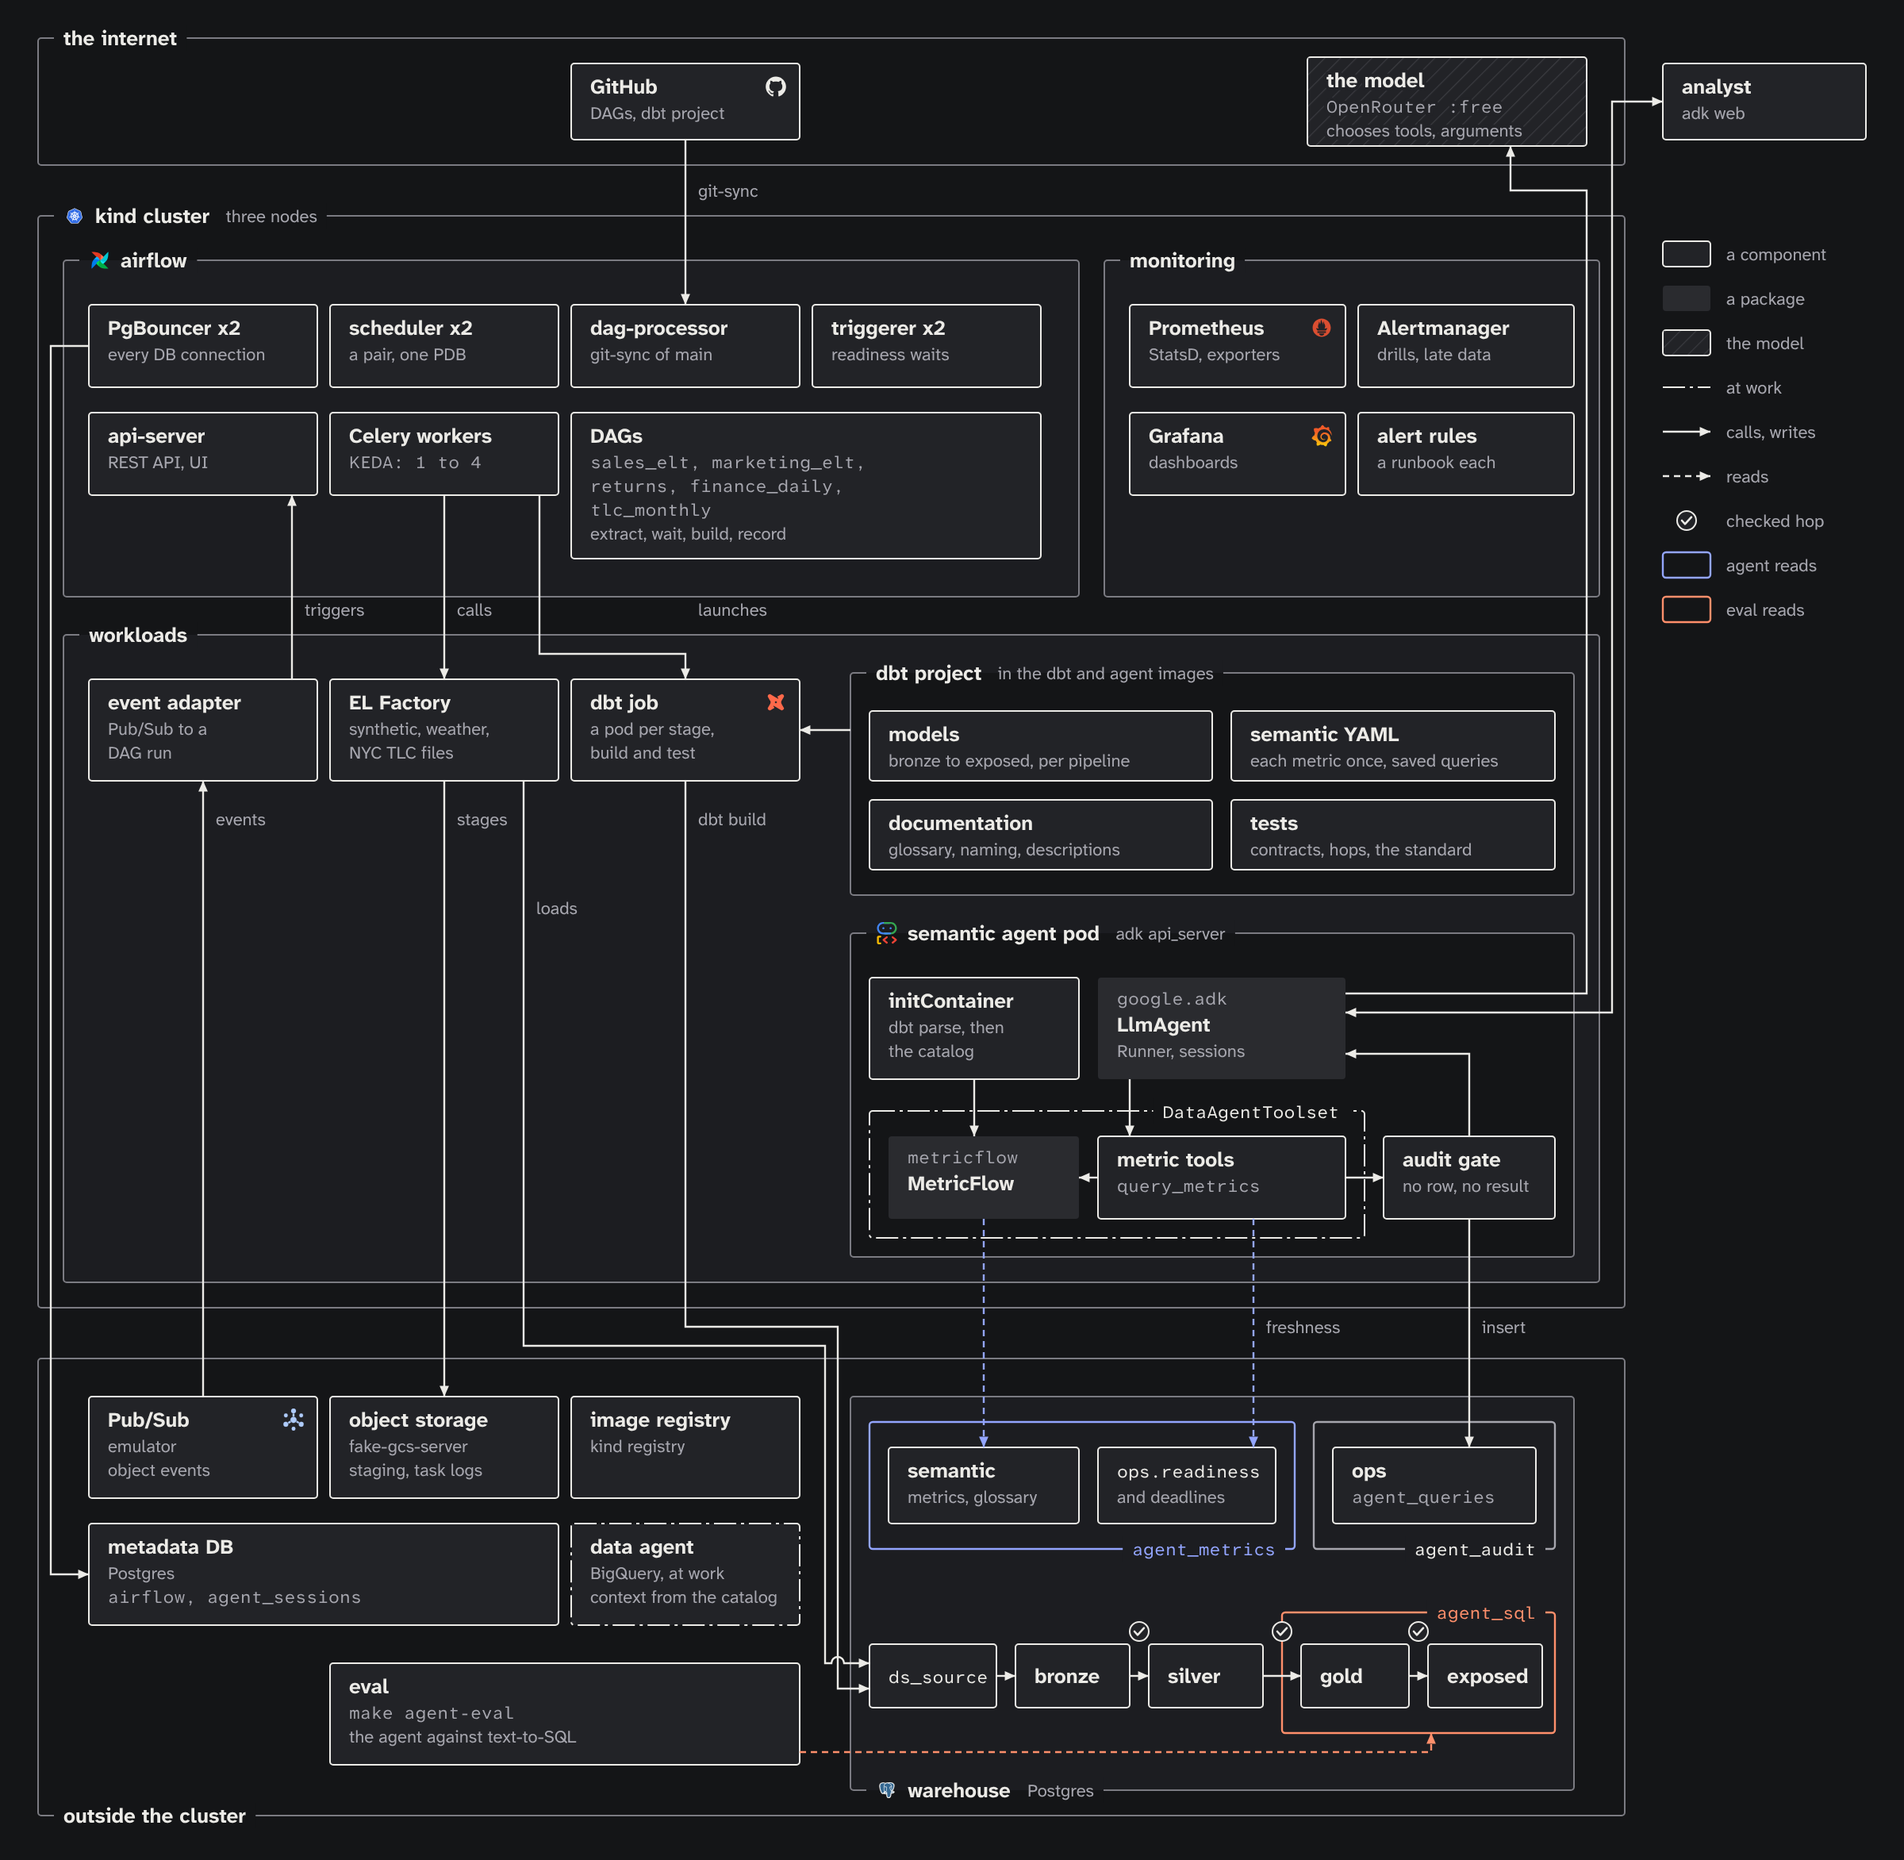
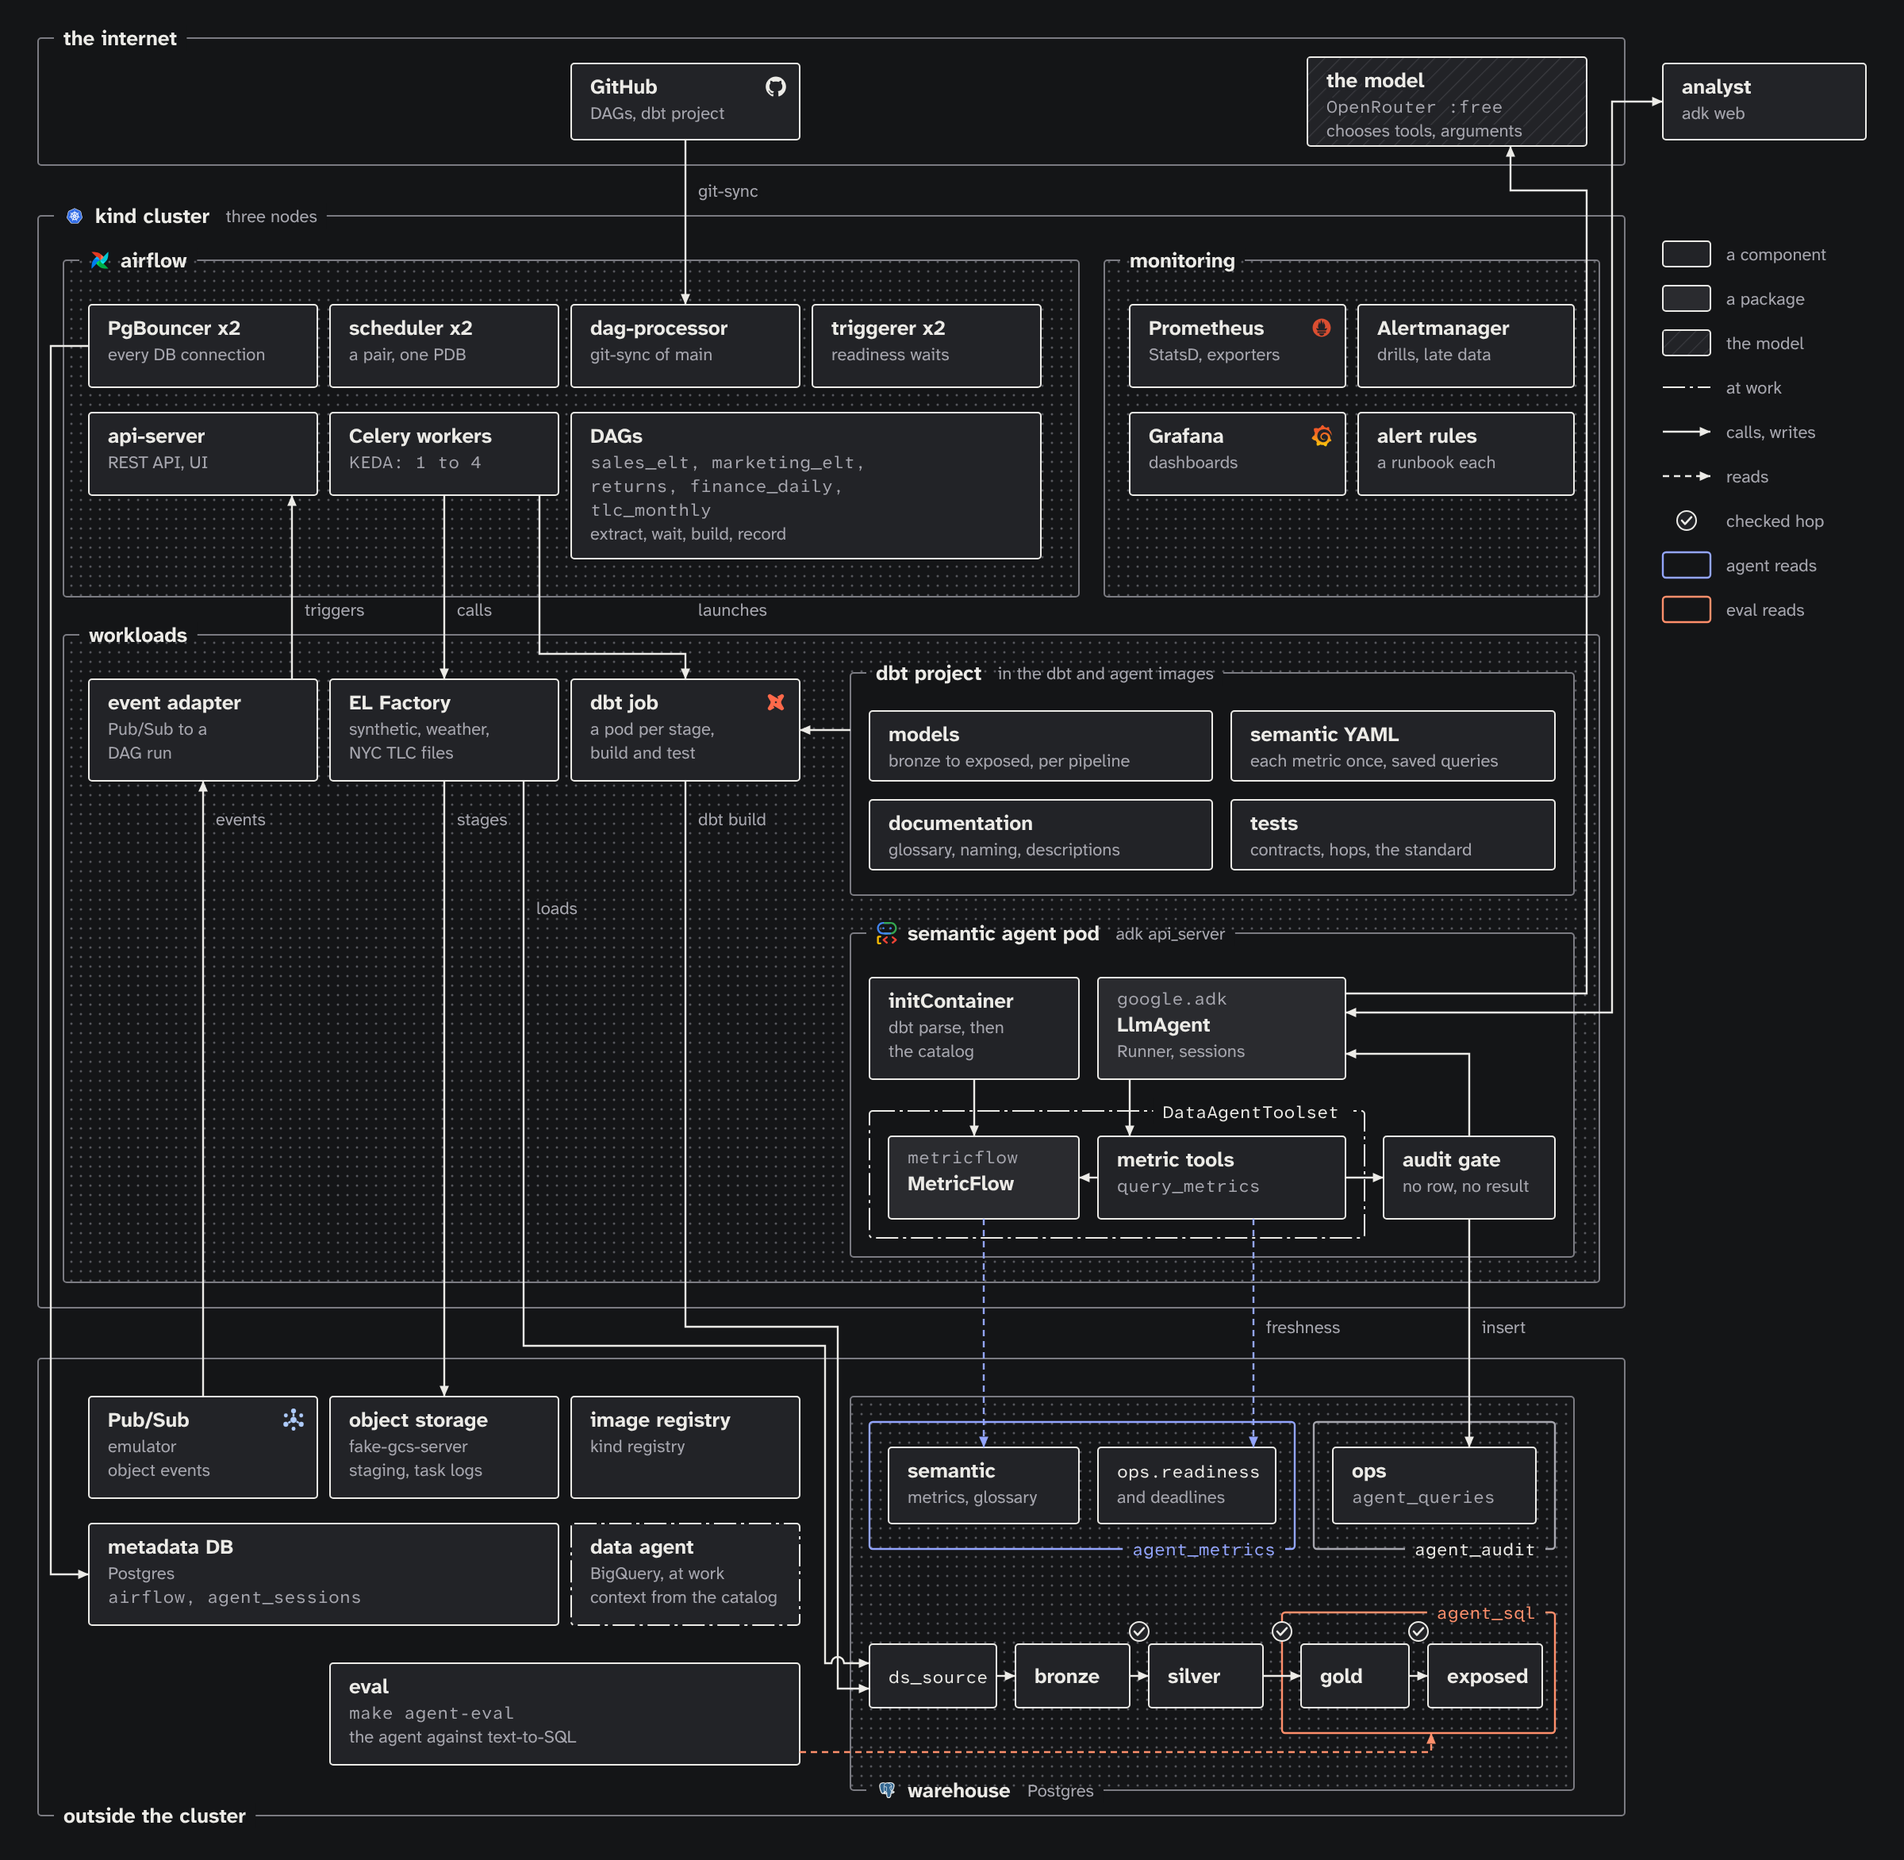
docs(assets): dot-screened bands, outlined package cards

diff --git a/assets/platform.html b/assets/platform.html
@@ -22,7 +22,7 @@
    between the sheet:css markers; edit it here, never in a copy. */
 :root {
   --paper: #fbfbf9;
-  --tint: #f1f0eb;
+  --dot: #bebdb8;
   --card: #ffffff;
   --pkg: #ebeae5;
   --ink: #1b1b1d;
@@ -37,13 +37,13 @@
 }
 @media (prefers-color-scheme: dark) {
   :root:not([data-theme="light"]) {
-    --paper: rgb(20, 21, 23); --tint: #1c1d21; --card: rgb(34, 35, 39); --pkg: #2a2b2f; --ink: #ecebe7; --rule: #7b7b82; --hair: #3a3b40;
+    --paper: rgb(20, 21, 23); --dot: #56575d; --card: rgb(34, 35, 39); --pkg: #2a2b2f; --ink: #ecebe7; --rule: #7b7b82; --hair: #3a3b40;
     --muted: #a6a6ae; --cobalt: #93a5ff; --vermilion: #ff8f6b;
     color-scheme: dark;
   }
 }
 :root[data-theme="dark"] {
-  --paper: rgb(20, 21, 23); --tint: #1c1d21; --card: rgb(34, 35, 39); --pkg: #2a2b2f; --ink: #ecebe7; --rule: #7b7b82; --hair: #3a3b40;
+  --paper: rgb(20, 21, 23); --dot: #56575d; --card: rgb(34, 35, 39); --pkg: #2a2b2f; --ink: #ecebe7; --rule: #7b7b82; --hair: #3a3b40;
   --muted: #a6a6ae; --cobalt: #93a5ff; --vermilion: #ff8f6b;
   color-scheme: dark;
 }
@@ -69,13 +69,16 @@ figure { margin: 0; overflow-x: auto; }
 svg.sheet { display: block; width: 100%; height: auto; min-width: 720px; font-family: var(--sans); }
 
 .frame { fill: none; stroke: var(--rule); stroke-width: 1; }
-/* depth banding: second, fourth, ... levels screened with a tint; the levels between back on paper */
-.frame.band-tint { fill: var(--tint); }
+/* depth banding: second, fourth, ... levels screened with a dot pattern, a drafter's screen (flat grey is
+   a package card's); the levels between back on paper */
+.frame.band-tint { fill: url(#screen); }
+.screen-bg { fill: var(--paper); }
+.screen-dot { fill: var(--dot); }
 .frame.band-paper { fill: var(--paper); }
 .knock { fill: var(--paper); }
-.knock.tint { fill: var(--tint); }
+.knock.tint { fill: url(#screen); }
 .card { fill: var(--card); stroke: var(--ink); stroke-width: 1; }
-.card.pkg { fill: var(--pkg); stroke: none; }
+.card.pkg { fill: var(--pkg); }
 .card.behind { stroke: var(--rule); }
 .card.quiet { stroke: var(--rule); }
 .outline { fill: none; stroke: var(--ink); stroke-width: 1; }
@@ -100,7 +103,7 @@ svg.sheet { display: block; width: 100%; height: auto; min-width: 720px; font-fa
 .edge.reads { stroke-dasharray: 4 3; }
 .edge.cobalt { stroke: var(--cobalt); }
 .edge.vermilion { stroke: var(--vermilion); }
-.elabel { font-size: 11px; fill: var(--muted); }
+.elabel { font-size: 11px; fill: var(--muted); paint-order: stroke; stroke: var(--paper); stroke-width: 3px; stroke-linejoin: round; } /* the halo clears a screen's dots under the glyphs */
 .elabel.mono { font-family: var(--mono); }
 .mark { fill: var(--card); stroke: var(--ink); stroke-width: 1; }
 .mark-ink { fill: none; stroke: var(--ink); stroke-width: 1.3; stroke-linecap: round; stroke-linejoin: round; }
@@ -306,6 +309,11 @@ function Sheet(svg, opt = {}) {
   }
   const hatch = el('pattern', { id: 'hatch', patternUnits: 'userSpaceOnUse', width: 7, height: 7, patternTransform: 'rotate(45)' }, defs);
   el('line', { x1: 0, y1: 0, x2: 0, y2: 7, class: 'hatch-line' }, hatch);
+  // the depth screen: a fine dot on paper, tiled in the sheet's own units so every screened area and
+  // every knock-out half on one lines up dot for dot
+  const screen = el('pattern', { id: 'screen', patternUnits: 'userSpaceOnUse', width: 6, height: 6 }, defs);
+  el('rect', { width: 6, height: 6, class: 'screen-bg' }, screen);
+  el('circle', { cx: 3, cy: 3, r: 0.75, class: 'screen-dot' }, screen);
 
   // A frame: no fill; [logo] title and note knocked into its top line, or its bottom line with
   // edge: 'bottom' (a title block, for a frame that edges enter from above).
@@ -435,7 +443,7 @@ function Sheet(svg, opt = {}) {
     try { if (opt.storageKey) localStorage.setItem(opt.storageKey, m); } catch (e) { /* storage off */ }
   };
   // Depth banding: a frame inside an odd number of frames (a second, fourth, ... level) is screened with
-  // a faint tint, the levels between stay paper, the outermost have no fill. Frames move beneath
+  // a fine dot pattern, the levels between stay paper, the outermost have no fill. Frames move beneath
   // everything, outermost first, and each knock-out half takes the fill of the frame it sits in.
   const inside = (a, b) => a !== b && a.x >= b.x && a.y >= b.y && a.x + a.w <= b.x + b.w && a.y + a.h <= b.y + b.h;
   const band = () => {

diff --git a/assets/semantic-agent.html b/assets/semantic-agent.html
@@ -20,7 +20,7 @@
    between the sheet:css markers; edit it here, never in a copy. */
 :root {
   --paper: #fbfbf9;
-  --tint: #f1f0eb;
+  --dot: #bebdb8;
   --card: #ffffff;
   --pkg: #ebeae5;
   --ink: #1b1b1d;
@@ -35,13 +35,13 @@
 }
 @media (prefers-color-scheme: dark) {
   :root:not([data-theme="light"]) {
-    --paper: rgb(20, 21, 23); --tint: #1c1d21; --card: rgb(34, 35, 39); --pkg: #2a2b2f; --ink: #ecebe7; --rule: #7b7b82; --hair: #3a3b40;
+    --paper: rgb(20, 21, 23); --dot: #56575d; --card: rgb(34, 35, 39); --pkg: #2a2b2f; --ink: #ecebe7; --rule: #7b7b82; --hair: #3a3b40;
     --muted: #a6a6ae; --cobalt: #93a5ff; --vermilion: #ff8f6b;
     color-scheme: dark;
   }
 }
 :root[data-theme="dark"] {
-  --paper: rgb(20, 21, 23); --tint: #1c1d21; --card: rgb(34, 35, 39); --pkg: #2a2b2f; --ink: #ecebe7; --rule: #7b7b82; --hair: #3a3b40;
+  --paper: rgb(20, 21, 23); --dot: #56575d; --card: rgb(34, 35, 39); --pkg: #2a2b2f; --ink: #ecebe7; --rule: #7b7b82; --hair: #3a3b40;
   --muted: #a6a6ae; --cobalt: #93a5ff; --vermilion: #ff8f6b;
   color-scheme: dark;
 }
@@ -67,13 +67,16 @@ figure { margin: 0; overflow-x: auto; }
 svg.sheet { display: block; width: 100%; height: auto; min-width: 720px; font-family: var(--sans); }
 
 .frame { fill: none; stroke: var(--rule); stroke-width: 1; }
-/* depth banding: second, fourth, ... levels screened with a tint; the levels between back on paper */
-.frame.band-tint { fill: var(--tint); }
+/* depth banding: second, fourth, ... levels screened with a dot pattern, a drafter's screen (flat grey is
+   a package card's); the levels between back on paper */
+.frame.band-tint { fill: url(#screen); }
+.screen-bg { fill: var(--paper); }
+.screen-dot { fill: var(--dot); }
 .frame.band-paper { fill: var(--paper); }
 .knock { fill: var(--paper); }
-.knock.tint { fill: var(--tint); }
+.knock.tint { fill: url(#screen); }
 .card { fill: var(--card); stroke: var(--ink); stroke-width: 1; }
-.card.pkg { fill: var(--pkg); stroke: none; }
+.card.pkg { fill: var(--pkg); }
 .card.behind { stroke: var(--rule); }
 .card.quiet { stroke: var(--rule); }
 .outline { fill: none; stroke: var(--ink); stroke-width: 1; }
@@ -98,7 +101,7 @@ svg.sheet { display: block; width: 100%; height: auto; min-width: 720px; font-fa
 .edge.reads { stroke-dasharray: 4 3; }
 .edge.cobalt { stroke: var(--cobalt); }
 .edge.vermilion { stroke: var(--vermilion); }
-.elabel { font-size: 11px; fill: var(--muted); }
+.elabel { font-size: 11px; fill: var(--muted); paint-order: stroke; stroke: var(--paper); stroke-width: 3px; stroke-linejoin: round; } /* the halo clears a screen's dots under the glyphs */
 .elabel.mono { font-family: var(--mono); }
 .mark { fill: var(--card); stroke: var(--ink); stroke-width: 1; }
 .mark-ink { fill: none; stroke: var(--ink); stroke-width: 1.3; stroke-linecap: round; stroke-linejoin: round; }
@@ -231,6 +234,11 @@ function Sheet(svg, opt = {}) {
   }
   const hatch = el('pattern', { id: 'hatch', patternUnits: 'userSpaceOnUse', width: 7, height: 7, patternTransform: 'rotate(45)' }, defs);
   el('line', { x1: 0, y1: 0, x2: 0, y2: 7, class: 'hatch-line' }, hatch);
+  // the depth screen: a fine dot on paper, tiled in the sheet's own units so every screened area and
+  // every knock-out half on one lines up dot for dot
+  const screen = el('pattern', { id: 'screen', patternUnits: 'userSpaceOnUse', width: 6, height: 6 }, defs);
+  el('rect', { width: 6, height: 6, class: 'screen-bg' }, screen);
+  el('circle', { cx: 3, cy: 3, r: 0.75, class: 'screen-dot' }, screen);
 
   // A frame: no fill; [logo] title and note knocked into its top line, or its bottom line with
   // edge: 'bottom' (a title block, for a frame that edges enter from above).
@@ -360,7 +368,7 @@ function Sheet(svg, opt = {}) {
     try { if (opt.storageKey) localStorage.setItem(opt.storageKey, m); } catch (e) { /* storage off */ }
   };
   // Depth banding: a frame inside an odd number of frames (a second, fourth, ... level) is screened with
-  // a faint tint, the levels between stay paper, the outermost have no fill. Frames move beneath
+  // a fine dot pattern, the levels between stay paper, the outermost have no fill. Frames move beneath
   // everything, outermost first, and each knock-out half takes the fill of the frame it sits in.
   const inside = (a, b) => a !== b && a.x >= b.x && a.y >= b.y && a.x + a.w <= b.x + b.w && a.y + a.h <= b.y + b.h;
   const band = () => {

diff --git a/assets/semantic-track.html b/assets/semantic-track.html
@@ -20,7 +20,7 @@
    between the sheet:css markers; edit it here, never in a copy. */
 :root {
   --paper: #fbfbf9;
-  --tint: #f1f0eb;
+  --dot: #bebdb8;
   --card: #ffffff;
   --pkg: #ebeae5;
   --ink: #1b1b1d;
@@ -35,13 +35,13 @@
 }
 @media (prefers-color-scheme: dark) {
   :root:not([data-theme="light"]) {
-    --paper: rgb(20, 21, 23); --tint: #1c1d21; --card: rgb(34, 35, 39); --pkg: #2a2b2f; --ink: #ecebe7; --rule: #7b7b82; --hair: #3a3b40;
+    --paper: rgb(20, 21, 23); --dot: #56575d; --card: rgb(34, 35, 39); --pkg: #2a2b2f; --ink: #ecebe7; --rule: #7b7b82; --hair: #3a3b40;
     --muted: #a6a6ae; --cobalt: #93a5ff; --vermilion: #ff8f6b;
     color-scheme: dark;
   }
 }
 :root[data-theme="dark"] {
-  --paper: rgb(20, 21, 23); --tint: #1c1d21; --card: rgb(34, 35, 39); --pkg: #2a2b2f; --ink: #ecebe7; --rule: #7b7b82; --hair: #3a3b40;
+  --paper: rgb(20, 21, 23); --dot: #56575d; --card: rgb(34, 35, 39); --pkg: #2a2b2f; --ink: #ecebe7; --rule: #7b7b82; --hair: #3a3b40;
   --muted: #a6a6ae; --cobalt: #93a5ff; --vermilion: #ff8f6b;
   color-scheme: dark;
 }
@@ -67,13 +67,16 @@ figure { margin: 0; overflow-x: auto; }
 svg.sheet { display: block; width: 100%; height: auto; min-width: 720px; font-family: var(--sans); }
 
 .frame { fill: none; stroke: var(--rule); stroke-width: 1; }
-/* depth banding: second, fourth, ... levels screened with a tint; the levels between back on paper */
-.frame.band-tint { fill: var(--tint); }
+/* depth banding: second, fourth, ... levels screened with a dot pattern, a drafter's screen (flat grey is
+   a package card's); the levels between back on paper */
+.frame.band-tint { fill: url(#screen); }
+.screen-bg { fill: var(--paper); }
+.screen-dot { fill: var(--dot); }
 .frame.band-paper { fill: var(--paper); }
 .knock { fill: var(--paper); }
-.knock.tint { fill: var(--tint); }
+.knock.tint { fill: url(#screen); }
 .card { fill: var(--card); stroke: var(--ink); stroke-width: 1; }
-.card.pkg { fill: var(--pkg); stroke: none; }
+.card.pkg { fill: var(--pkg); }
 .card.behind { stroke: var(--rule); }
 .card.quiet { stroke: var(--rule); }
 .outline { fill: none; stroke: var(--ink); stroke-width: 1; }
@@ -98,7 +101,7 @@ svg.sheet { display: block; width: 100%; height: auto; min-width: 720px; font-fa
 .edge.reads { stroke-dasharray: 4 3; }
 .edge.cobalt { stroke: var(--cobalt); }
 .edge.vermilion { stroke: var(--vermilion); }
-.elabel { font-size: 11px; fill: var(--muted); }
+.elabel { font-size: 11px; fill: var(--muted); paint-order: stroke; stroke: var(--paper); stroke-width: 3px; stroke-linejoin: round; } /* the halo clears a screen's dots under the glyphs */
 .elabel.mono { font-family: var(--mono); }
 .mark { fill: var(--card); stroke: var(--ink); stroke-width: 1; }
 .mark-ink { fill: none; stroke: var(--ink); stroke-width: 1.3; stroke-linecap: round; stroke-linejoin: round; }
@@ -272,6 +275,11 @@ function Sheet(svg, opt = {}) {
   }
   const hatch = el('pattern', { id: 'hatch', patternUnits: 'userSpaceOnUse', width: 7, height: 7, patternTransform: 'rotate(45)' }, defs);
   el('line', { x1: 0, y1: 0, x2: 0, y2: 7, class: 'hatch-line' }, hatch);
+  // the depth screen: a fine dot on paper, tiled in the sheet's own units so every screened area and
+  // every knock-out half on one lines up dot for dot
+  const screen = el('pattern', { id: 'screen', patternUnits: 'userSpaceOnUse', width: 6, height: 6 }, defs);
+  el('rect', { width: 6, height: 6, class: 'screen-bg' }, screen);
+  el('circle', { cx: 3, cy: 3, r: 0.75, class: 'screen-dot' }, screen);
 
   // A frame: no fill; [logo] title and note knocked into its top line, or its bottom line with
   // edge: 'bottom' (a title block, for a frame that edges enter from above).
@@ -401,7 +409,7 @@ function Sheet(svg, opt = {}) {
     try { if (opt.storageKey) localStorage.setItem(opt.storageKey, m); } catch (e) { /* storage off */ }
   };
   // Depth banding: a frame inside an odd number of frames (a second, fourth, ... level) is screened with
-  // a faint tint, the levels between stay paper, the outermost have no fill. Frames move beneath
+  // a fine dot pattern, the levels between stay paper, the outermost have no fill. Frames move beneath
   // everything, outermost first, and each knock-out half takes the fill of the frame it sits in.
   const inside = (a, b) => a !== b && a.x >= b.x && a.y >= b.y && a.x + a.w <= b.x + b.w && a.y + a.h <= b.y + b.h;
   const band = () => {
